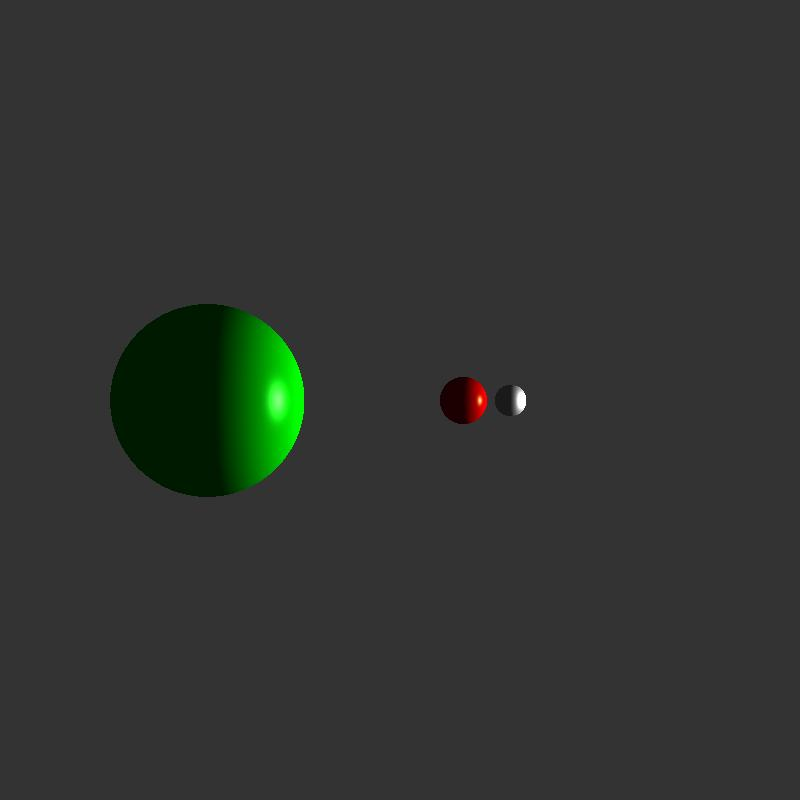
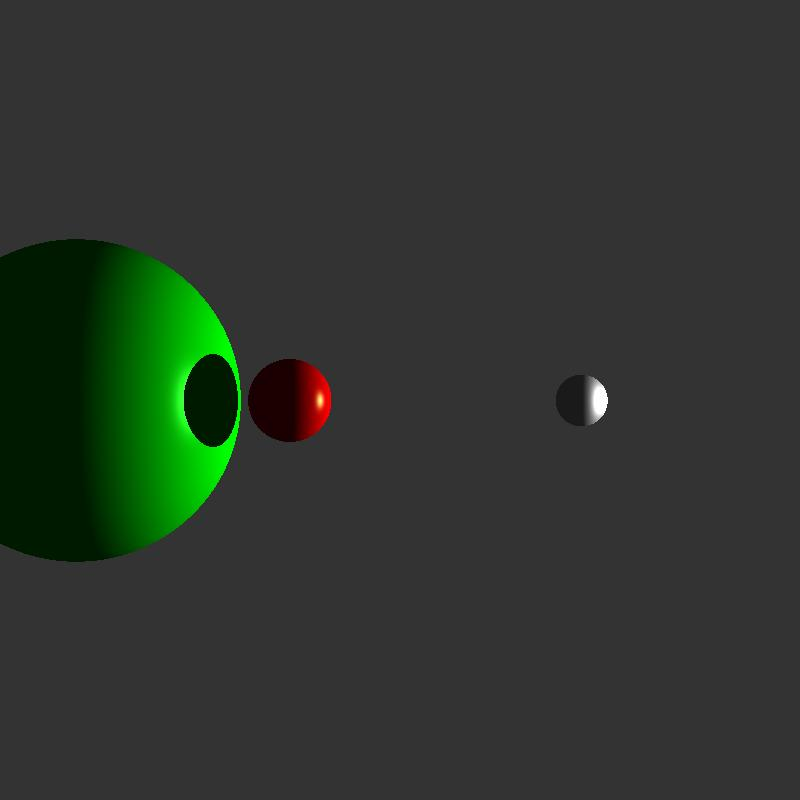
color

Changed region(s): [[0.0, 0.2812, 0.4375, 0.7188], [0.5312, 0.4688, 0.6562, 0.5312], [0.6875, 0.4688, 0.7812, 0.5312]]

diff --git a/RayTracer/src/raytracer/RayTracer.java b/RayTracer/src/raytracer/RayTracer.java
@@ -67,7 +67,7 @@ public class RayTracer {
 				this.root.setRay(this.coordinates[i][j].getDirection(this.scene.getCamLookFrom()));
 				this.root.setInitialPos(this.scene.getCamLookFrom());
 				this.root.setType(RayType.PRIMARY);
-				this.pixels[i][j] = this.rayTrace(this.root, this.depth).toColor();
+				this.pixels[i][j] = this.rayTrace(this.root, 0).toColor();
 
 				//System.out.println(this.root.getRay().x + ", " + this.root.getRay().y + ", " + this.root.getRay().z);
 				
@@ -83,6 +83,7 @@ public class RayTracer {
 	 * @param _ray
 	 */
 	private RColor rayTrace(Ray _ray, int currentDepth){
+		currentDepth++;
 		ArrayList<Vector> collisions = new ArrayList<Vector>();
 		ArrayList<GraphicObject> objects = new ArrayList<GraphicObject>();
 		
@@ -107,38 +108,18 @@ public class RayTracer {
 		
 		// determine which object is closest and mark the closest collision point.
 		GraphicObject closestObject = null;
-		Vector closestPoint = null;
+		Vector intersection = null;
 		float smallestDist = Float.POSITIVE_INFINITY;
 		
 		for(int i = 0; i < collisions.size(); i++){
 			if(collisions.get(i).getDirection(_ray.getInitialPos()).getMagnitude() < smallestDist){
 				closestObject = objects.get(i);
-				closestPoint = collisions.get(i);
+				intersection = collisions.get(i);
 			}
 		}
 		
-		// Calculate Color
-		// get light and normal directions
-		Vector normal = closestObject.getNormal(closestPoint).normalize();
-		Vector lightDir = this.scene.getLightSource().getDirection(closestPoint).normalize();
-		Vector eyeDir = this.scene.getCamLookFrom().getDirection(closestPoint).normalize();
+		RColor intersectionColor = computeIntensityColor(intersection, closestObject);
 		
-		float dotProductNL = normal.dotProduct(lightDir);
-		Vector reflectDir = normal.multiplyByConstant(2 * dotProductNL).subtract(lightDir).normalize();
-		float dotProductER = eyeDir.dotProduct(reflectDir);
-		
-		// get ambient color
-		RColor diffuse = this.scene.getAmbientLight().add(this.scene.getLightColor().multiplyByConstant(Math.max(0, dotProductNL)));
-		RColor ambient = closestObject.getDiffuse().multiply(diffuse);
-		
-		// get specular color	
-		RColor specular = this.scene.getLightColor().multiply(closestObject.getSpecularHighlight());
-		float phongValue = (float)Math.pow((float)Math.max(0, dotProductER), closestObject.getPhongConstant());
-		specular = specular.multiplyByConstant(phongValue);
-		
-		RColor intersectionColor = ambient.add(specular);
-		
-		// CAST RAYS:
 		// Reflective Ray
 		// TRansmission ray
 		// Shadow ray
@@ -168,6 +149,60 @@ public class RayTracer {
 		//}
 	}
 	
+	private RColor computeIntensityColor(Vector intersection, GraphicObject closestObject){
+		// Calculate Color
+		// get light and normal directions
+		Vector normal = closestObject.getNormal(intersection).normalize();
+		Vector lightDir = this.scene.getLightSource().getDirection(intersection).normalize();
+		Vector eyeDir = this.scene.getCamLookFrom().getDirection(intersection).normalize();
+		
+		float dotProductNL = normal.dotProduct(lightDir);
+		Vector reflectDir = normal.multiplyByConstant(2 * dotProductNL).subtract(lightDir).normalize();
+		float dotProductER = eyeDir.dotProduct(reflectDir);
+		
+		// get ambient color
+		//RColor diffuse = this.scene.getAmbientLight().add(this.scene.getLightColor().multiplyByConstant(Math.max(0, dotProductNL)));
+		//RColor ambient = closestObject.getDiffuse().multiply(diffuse);
+		
+		// get specular color	
+		//RColor specular = this.scene.getLightColor().multiply(closestObject.getSpecularHighlight());
+		float phongValue = (float)Math.pow((float)Math.max(0, dotProductER), closestObject.getPhongConstant());
+		//specular = specular.multiplyByConstant(phongValue);
+		
+		//if(isInShadow(intersection, closestObject)){
+		//	return new RColor(0.0f, 0.0f, 0.0f);
+		//}
+		
+		//return ambient.add(specular);
+		
+
+		RColor diffuseOne = closestObject.getDiffuse().multiply(this.scene.getAmbientLight());
+		RColor diffuseTwo = closestObject.getDiffuse().multiplyByConstant(Math.max(0, dotProductNL));
+		RColor phong = closestObject.getSpecularHighlight().multiplyByConstant(phongValue);
+		RColor appliedLight = this.scene.getLightColor().multiply(diffuseTwo.add(phong));
+		
+		// determine if intersection is within shadow.
+		if(isInShadow(intersection, closestObject)){
+			appliedLight = appliedLight.multiplyByConstant(0.0f);
+		}
+		
+		return diffuseOne.add(appliedLight);
+	}
+	
+	private boolean isInShadow(Vector intersection, GraphicObject closestObject){
+		Vector shadowRay = this.scene.getLightSource().getDirection(intersection);
+		
+		// check for any collision for the light ray.
+		for(GraphicObject obj : this.scene){
+			if(!closestObject.equals(obj)){
+				Vector collision = obj.doesCollide(intersection, shadowRay);
+				if(collision != null){
+					return true;
+				}
+			}
+		}
+		return false;
+	}
 	/**
 	 * recursively compute color values starting from the bottom to the root of the tree of rays.
 	 * @return

diff --git a/RayTracer/src/graphic_object/Sphere.java b/RayTracer/src/graphic_object/Sphere.java
@@ -71,4 +71,16 @@ public class Sphere extends GraphicObject{
 	public Vector getNormal(Vector pt) {
 		return pt.getDirection(this.center);
 	}
+
+	@Override
+	public boolean equals(GraphicObject obj) {
+		if(obj.getShapeType() == ShapeType.SPHERE){
+			Sphere s = (Sphere)obj;
+			return s.getCenter().x == this.center.x 
+					&& s.getCenter().y == this.center.y 
+					&& s.getCenter().z == this.center.z
+					&& s.radius == this.radius;
+		}
+		return false;
+	}
 }

diff --git a/RayTracer/src/driver/Driver.java b/RayTracer/src/driver/Driver.java
@@ -9,6 +9,7 @@ public class Driver {
 	public static void main(String[] args) {
 		// TODO Auto-generated method stub
 		
+		//Scene s = SceneParser.buildScene("scenes//SceneII.rayTracing");
 		Scene s = SceneParser.buildScene("scenes//diffuse.rayTracing");
 		RayTracer tracer = new RayTracer(s, 800, 800, 5);
 		System.out.println("Tracing...");

diff --git a/RayTracer/src/graphic_object/Polygon.java b/RayTracer/src/graphic_object/Polygon.java
@@ -112,4 +112,12 @@ public class Polygon extends GraphicObject implements Iterable<Edge>{
 		
 		return new Vector(xn, yn, zn);
 	}
+
+	@Override
+	public boolean equals(GraphicObject obj) {
+		if(obj.getShapeType() == ShapeType.POLYGON){
+			Polygon p = (Polygon)obj;
+		}
+		return false;
+	}
 }

diff --git a/RayTracer/src/graphic_object/GraphicObject.java b/RayTracer/src/graphic_object/GraphicObject.java
@@ -51,6 +51,8 @@ public abstract class GraphicObject{
 	
 	public abstract Vector getNormal(Vector pt);
 	
+	public abstract boolean equals(GraphicObject obj);
+	
 	public ShapeType getShapeType() {
 		return shapeType;
 	}
